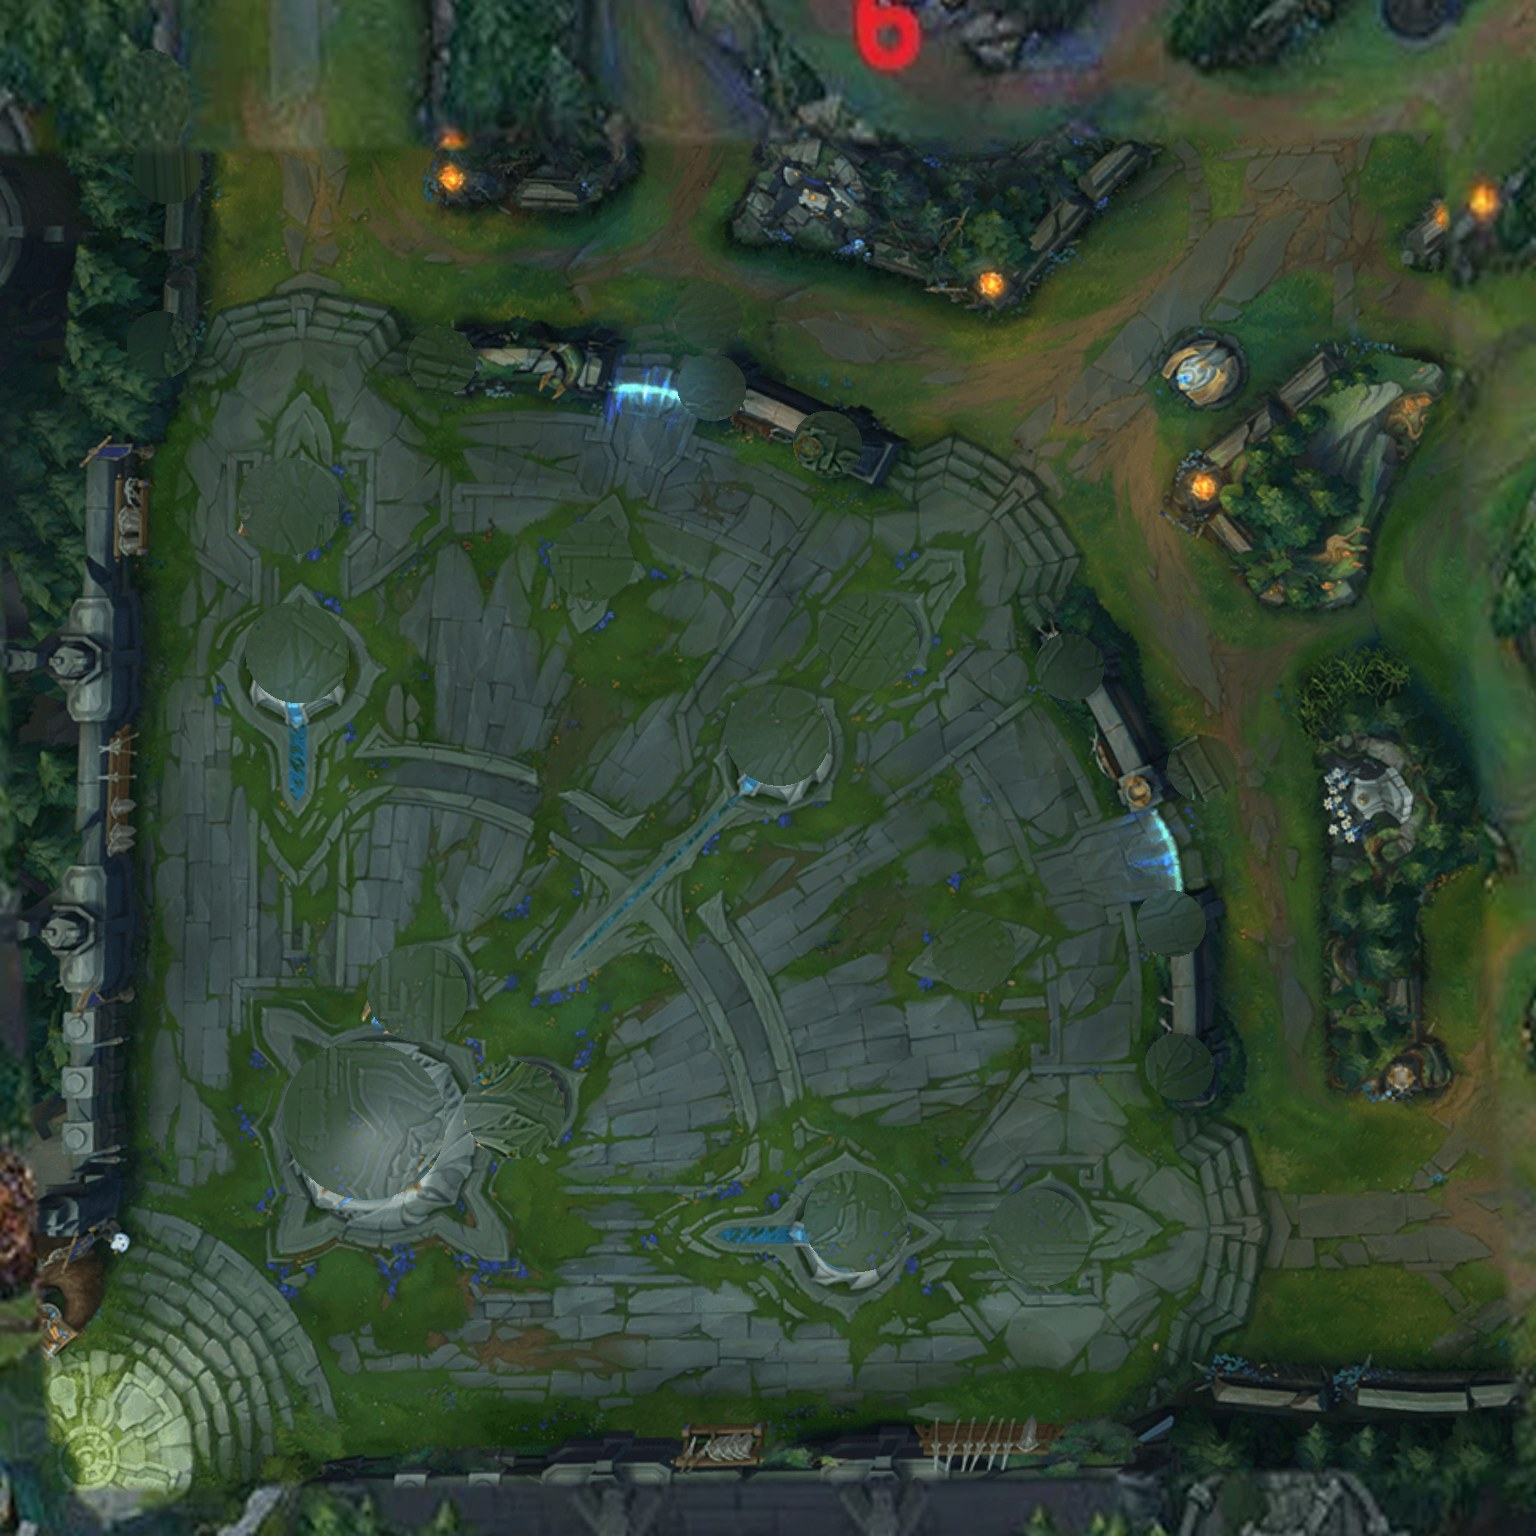
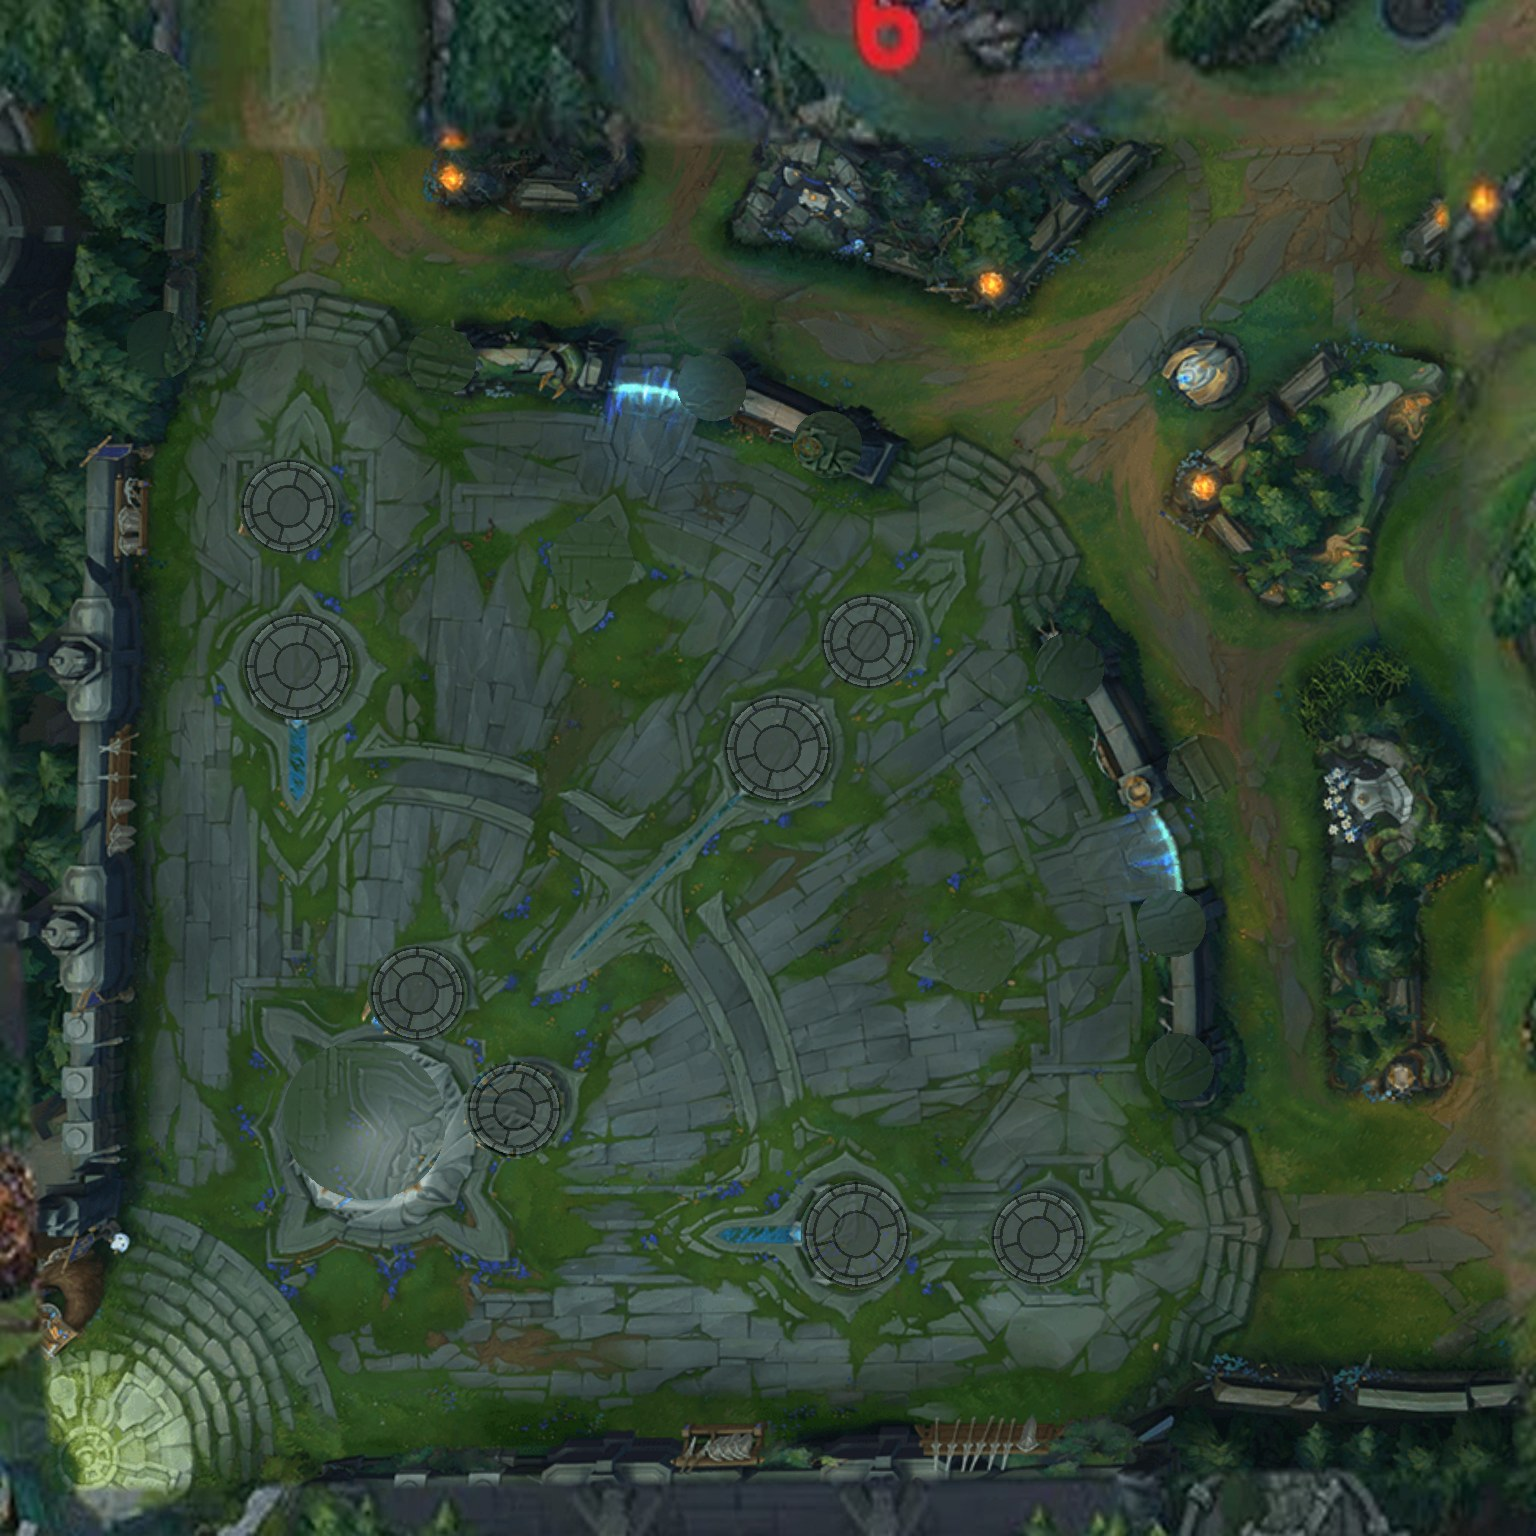
Handy: Kamera näher; Q größer und kräftiger; Mid-Fluss läuft flach aus, Feuerschalen an den Mündungen; Erdwege im Dschungel, weiche Mauerschatten; Steinsockel genau unter Türmen und Inhibitoren
Claude-Session: https://claude.ai/code/session_01LJ4AnG93KsghUSoxapAnXM

diff --git a/src/game/terrain.ts b/src/game/terrain.ts
@@ -274,8 +274,8 @@ function groundMask(grid: NavGrid, res: number) {
       const sd = grid.sdAt(x, z);
       const wall = sstep(0.2, -0.6, sd);
       const grass = (1 - sstep(0.12, 0.55, lane + jit)) * (1 - sstep(0.0, 0.3, river + jit * 0.5)) * (1 - sstep(0.1, 0.5, base));
-      // Fuß der Wände etwas dunkler, oben auf dem Wald dunkler Waldboden
-      let shade = 0.74 + 0.26 * sstep(0, 2.5, sd);
+      // Fuß der Wände: weicher, breiter Schatten (wie auf der Kluft), oben auf dem Wald dunkler Waldboden
+      let shade = 0.6 + 0.4 * sstep(0, 4.5, sd + jit * 2);
       shade = shade * (1 - wall) + 0.5 * wall;
       shade *= 0.9 + fbm(x * 0.06 + 11, z * 0.06) * 0.2;
       // Böden der Camps: Erdboden (Wegtextur) mit unregelmäßigem Rand, etwas dunkler zur Mitte
@@ -287,12 +287,16 @@ function groundMask(grid: NavGrid, res: number) {
         pitFloor = Math.max(pitFloor, 1 - sstep(r * 0.7, r * 0.95, d));
         shade *= 0.82 + 0.18 * sstep(0, r, d);
       }
+      // Dschungelwege: Erde mit Steinplatten in der Mitte der Gänge, läuft von den Lanes in den Dschungel hinein;
+      // zu den Mauern hin wieder Gras (wie auf der Kluft statt Gras bis an die Kante)
+      const trail = sstep(2.4, 4.6, sd + (fbm(x * 0.09 + 7, z * 0.09 + 3) - 0.5) * 3.2 + jit * 2);
+      const dirt = trail * (1 - sstep(0.05, 0.35, river)) * (1 - sstep(0.1, 0.5, base)) * (1 - wall) * 0.9;
       const o = (py * res + px) * 4;
-      data[o] = Math.round(Math.max(0, Math.min(1, grass * (1 - pitFloor))) * 255);
+      data[o] = Math.round(Math.max(0, Math.min(1, grass * (1 - pitFloor) * (1 - dirt))) * 255);
       data[o + 1] = Math.round(Math.max(0, Math.min(1, shade)) * 255);
       // B: Weg (Lane), A: Steinboden der Basis
       const laneW = sstep(0.2, 0.6, lane + jit * 0.8) * (1 - sstep(0.1, 0.5, base)) * (1 - sstep(0.15, 0.5, river));
-      data[o + 2] = Math.round(Math.max(laneW * (1 - wall), pitFloor) * 255);
+      data[o + 2] = Math.round(Math.max(laneW * (1 - wall), pitFloor, dirt) * 255);
       data[o + 3] = Math.round(sstep(0.15, 0.75, base + jit * 0.9) * 255);
     }
   }

diff --git a/src/game/flipfx.ts b/src/game/flipfx.ts
@@ -8,7 +8,8 @@ import qFlightMulUrl from "../assets/fx/q_flight_mul.jpg";
 
 // Effekte als Daumenkino: Bild für Bild aus dem Vorlage-GIF ausgeschnitten (assets-src/qeffect/cut.py).
 // Jedes Bild hat zwei Schichten: Schatten (wird mit dem Boden multipliziert) und Licht (wird addiert).
-// Boden * Schatten + Licht ergibt genau das Bild aus dem GIF, nur auf unserem Boden.
+// Boden * Schatten + Licht ergibt das Bild aus dem GIF, nur auf unserem Boden (beide Schichten etwas verstärkt,
+// damit der Effekt im Spiel kräftiger wirkt).
 
 const FPS = 1000 / 30;
 // Maße aus cut.py (Pixel im entzerrten GIF; die Scheibe hat dort den Außenradius 103)
@@ -58,7 +59,7 @@ function flipMaterial(url: string, cols: number, rows: number, mode: "mul" | "ad
         float row = floor(uFrame / uGrid.x);
         vec2 cell = vec2((vUv.x + col) / uGrid.x, (vUv.y + uGrid.y - 1.0 - row) / uGrid.y);
         vec3 c = texture2D(uMap, cell).rgb;
-        ${mode === "mul" ? "gl_FragColor = vec4(mix(vec3(1.0), c, uFade), 1.0);" : "gl_FragColor = vec4(c * uFade, 1.0);"}
+        ${mode === "mul" ? "gl_FragColor = vec4(mix(vec3(1.0), pow(c, vec3(1.3)), uFade), 1.0);" : "gl_FragColor = vec4(c * uFade * 1.5, 1.0);"}
       }`,
   });
   if (mode === "mul") {

diff --git a/src/game/view.ts b/src/game/view.ts
@@ -3,7 +3,7 @@ import { applyCameraCut } from "./camcut";
 import { FlipFx } from "./flipfx";
 import { FOG_RES, FogOfWar } from "./fog";
 import { GroundFx, Indicators, Particles } from "./fx";
-import { FOUNTAIN, MAP, type V2 } from "./mapdata";
+import { FOUNTAIN, MAP, RIVER_BRAZIERS, type V2 } from "./mapdata";
 import {
   TEAM_COLOR,
   TEAM_GLOW,
@@ -148,6 +148,16 @@ export class View {
           this.braziers.push({ x: bx, z: bz, y: b.root.position.y + b.fireY, glow: b.glow, flame: b.flame, phase: Math.random() * 6 });
         }
       }
+    }
+
+    // Feuerschalen an den Flussmündungen der Mid-Lane, auf den Mauerecken (etwas größer als in der Basis)
+    for (const p of RIVER_BRAZIERS) {
+      const b = buildBrazier();
+      b.root.scale.setScalar(1.35);
+      b.root.position.set(p.x, world.grid.groundAt(p.x, p.z) - 0.1, p.z);
+      applyCameraCut(b.root);
+      scene.add(b.root);
+      this.braziers.push({ x: p.x, z: p.z, y: b.root.position.y + b.fireY * 1.35, glow: b.glow, flame: b.flame, phase: Math.random() * 6, size: 1.35 });
     }
 
     for (const c of world.champs) {

diff --git a/src/game/game.ts b/src/game/game.ts
@@ -240,7 +240,10 @@ export class Game {
     const aspect = window.innerWidth / window.innerHeight;
     // Mindestens ~30 Einheiten Breite auch im Hochformat
     const portrait = aspect < 1 ? 1 / Math.max(0.45, aspect) : 1;
-    const pf = Math.min(1.9, portrait);
+    // Handy: Kamera näher, damit Champions und Geschehen gut erkennbar sind (kurze Bildschirmseite unter 700 px)
+    const short = Math.min(window.innerWidth, window.innerHeight);
+    const mobile = short < 700 || matchMedia("(pointer: coarse)").matches;
+    const pf = Math.min(1.9, portrait) * (mobile ? 0.66 : 1);
     // Zoom stufenlos nachführen (im Logarithmus, damit jeder Mausrad-Schritt gleich wirkt)
     this.input.zoom = Math.max(this.minZoom(p.height, pf), this.input.zoom);
     this.zoomS = Math.exp(Math.log(this.zoomS) + (Math.log(this.input.zoom) - Math.log(this.zoomS)) * (1 - Math.exp(-dt / 0.1)));

diff --git a/src/game/champions.ts b/src/game/champions.ts
@@ -208,7 +208,7 @@ export const CHAMPIONS: ChampDef[] = [
         icon: "🔴",
         targeting: "point",
         range: 12,
-        radius: 3.5,
+        radius: 4.8,
         cd: [7, 6.5, 6, 5.5],
         mana: [50, 55, 60, 65],
         ai: "poke",
@@ -218,11 +218,11 @@ export const CHAMPIONS: ChampDef[] = [
           // Flug und Scheibe sind Bild für Bild aus dem Vorlage-GIF (flipfx.ts); dort landet die Kugel nach 0,93 s
           const delay = 0.93;
           c.anim.atk = 1;
-          w.fx({ type: "qcast", x: p.x, z: p.z, r: 3.5, owner: c, dur: delay });
+          w.fx({ type: "qcast", x: p.x, z: p.z, r: 4.8, owner: c, dur: delay });
           w.area(c, {
             x: p.x,
             z: p.z,
-            radius: 3.5,
+            radius: 4.8,
             delay,
             visual: "blood",
             color: 0xff2030,

diff --git a/src/game/navgrid.ts b/src/game/navgrid.ts
@@ -320,6 +320,11 @@ export class NavGrid {
     for (let i = 0; i < n * n; i++) {
       if (!this.walk[i]) this.river[i] = 0;
       this.river[i] *= 1 - smooth(0.15, 0.6, this.lane[i]);
+      // wie auf der Kluft: an der Mid-Lane läuft der Fluss flach aus (trockenes Flussbett statt Wasserwand)
+      const mx = (i % n) + 0.5;
+      const mz = Math.floor(i / n) + 0.5;
+      const dm = distToPolyline({ x: mx, z: mz }, LANES.mid) + (fbm(mx * 0.08 + 21, mz * 0.08) - 0.5) * 9;
+      this.river[i] *= smooth(LANE_WIDTH.mid / 2 + 6, LANE_WIDTH.mid / 2 + 30, dm);
     }
 
     // Büsche: begehbar, merken pro Zelle.

diff --git a/src/game/mapdata.ts b/src/game/mapdata.ts
@@ -97,6 +97,12 @@ export const MONSTER_SIZE = 2;
 /** Trefferzone (Radius) der Dschungelmonster wächst mit, damit niemand im Modell steht. */
 export const MONSTER_RADIUS = 1.5;
 
+/** Feuerschalen auf den Mauerecken, wo der Fluss an die Mid-Lane stößt (wie auf der Kluft), Rot gespiegelt. */
+export const RIVER_BRAZIERS: V2[] = [
+  { x: (149 * MAP) / 300, z: (130 * MAP) / 300 },
+  { x: (131 * MAP) / 300, z: (148 * MAP) / 300 },
+].flatMap((p) => [p, mirror(p)]);
+
 export const DRAGON_POS = lol(9866, 4414);
 export const BARON_POS = mirror(DRAGON_POS);
 const SCUTTLE_POS = lol(10500, 5170);

diff --git a/assets-src/base-floor/floor_hi.py b/assets-src/base-floor/floor_hi.py
@@ -36,7 +36,7 @@ hi = sample(im, u, v)
 # Gebäude-Symbole, Fackelsäulen, Statuen und Markierungen im Bild (Pixel, Radius) herausretuschieren
 holes = [(195, 580, 47)]  # Nexus
 holes += [(x, y, 29) for x, y in [(230, 505), (282, 575), (172, 215), (502, 300), (580, 655)]]  # Türme
-holes += [(x, y - 8, 30) for x, y in [(172, 310), (446, 363), (475, 652)]]  # Inhibitoren (Wappen oben auf dem Sockel)
+holes += [(x, y, 32) for x, y in [(172, 310), (446, 363), (475, 652)]]  # Inhibitoren
 holes += [(x, y, 20) for x, y in [(265, 130), (420, 148), (485, 183), (617, 317), (667, 470), (667, 555), (113, 15), (104, 118)]]
 holes += [(345, 250, 24), (552, 485, 24), (420, 105, 20), (690, 378, 20)]
 mask = np.zeros((N, N), bool)
@@ -62,6 +62,49 @@ den = gblur(known, 60)[..., None]
 hp = hi - np.stack([gblur(hi[..., c], 6) for c in range(3)], -1)
 grain = np.roll(np.roll(hp, 61, 0), 97, 1)
 hi[mask] = (num / np.maximum(den, 1e-3))[mask] + grain[mask] * 0.8
+
+# Runde Steinsockel genau unter Türmen und Inhibitoren (statt verwaschener Flecken): Platten in zwei Ringen mit
+# Fugen, dunkler Rand mit hellem Innenrand. Radius in Spieleinheiten, etwas größer als der Fuß des Modells.
+PX_PER_UNIT = N / W
+stone = hi[(hi.max(2) - hi.min(2) < 18) & (hi.mean(2) > 70) & (hi.mean(2) < 150)]
+base_col = np.median(stone, 0) if len(stone) else np.array([110.0, 118.0, 122.0])
+
+
+def hsh(a, b):
+    return (np.sin(a * 12.9898 + b * 78.233) * 43758.5453) % 1.0
+
+
+def platform(u0, v0, r_units):
+    k = np.argmin((u - u0) ** 2 + (v - v0) ** 2)
+    cy, cx = divmod(int(k), N)
+    R = r_units * PX_PER_UNIT
+    dx, dy = i - cx, j - cy
+    rr = np.hypot(dx, dy) / R
+    ang = (np.degrees(np.arctan2(dy, dx)) + 360) % 360
+    inside = rr < 1.0
+    ring = np.where(rr < 0.42, 0, np.where(rr < 0.78, 1, 2))
+    seg = np.where(ring == 0, 0, np.where(ring == 1, np.floor((ang + 15) / 60), np.floor(ang / 30)))
+    shade = 0.9 + 0.2 * hsh(ring, seg)
+    col = base_col[None, None, :] * shade[..., None]
+    # Fugen: Ringgrenzen und Plattenkanten
+    jr = np.minimum(np.abs(rr - 0.42), np.abs(rr - 0.78)) * R
+    ja1 = np.abs(((ang + 15) % 60) - 30) - 30
+    ja2 = np.abs((ang % 30) - 15) - 15
+    jt = np.where(ring == 1, np.abs(ja1), np.where(ring == 2, np.abs(ja2), 99)) * np.pi / 180 * rr * R
+    joint = (np.minimum(jr, jt) < 1.4) & (rr > 0.05)
+    col = np.where(joint[..., None], col * 0.55, col)
+    # Rand
+    col = np.where(((rr > 0.93) & (rr < 1.0))[..., None], col * 0.5, col)
+    col = np.where(((rr > 0.88) & (rr < 0.93))[..., None], np.minimum(255, col * 1.25), col)
+    # feine Körnung aus der Umgebung
+    col = col + grain * 0.5
+    a = np.clip((1.0 - rr) * R / 2.5, 0, 1)[..., None] * inside[..., None]
+    return col, a
+
+
+for (pu, pv), r_u in [((x, y), 4.0) for x, y in [(230, 505), (282, 575), (172, 215), (502, 300), (580, 655)]] + [((x, y), 4.5) for x, y in [(172, 310), (446, 363), (475, 652)]]:
+    col, a = platform(pu, pv, r_u)
+    hi = hi * (1 - a) + col * a
 
 # Übergang zum groben Boden am Bildrand (Feder 6 Pixel)
 inside = np.minimum.reduce([u, v, Ww - 1 - u, Hh - 1 - v])
